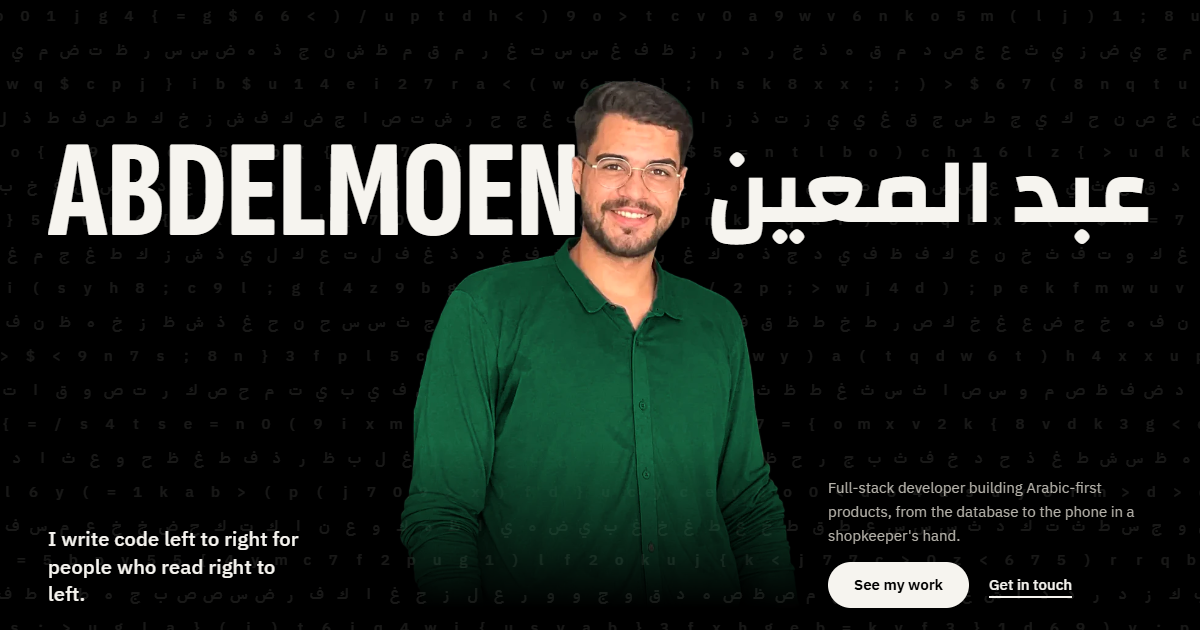
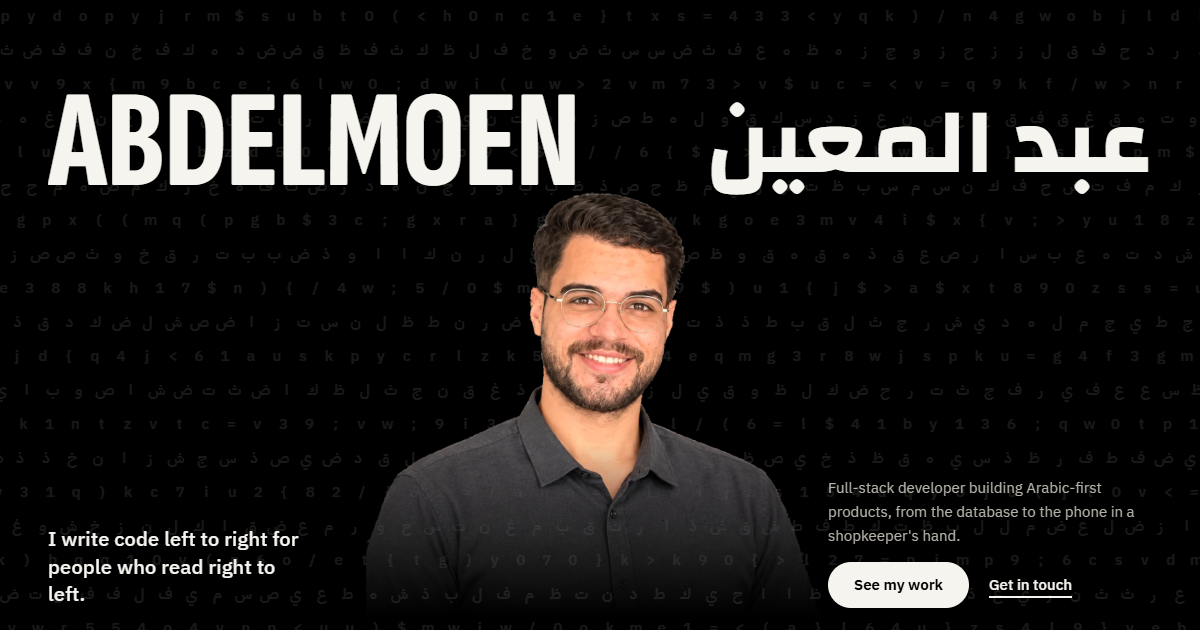
feat: use the new headshot in the hero
Swap the hero portrait for the new photo with its background removed,
size it for a half-length shot with both names above the head, and drop
the pointer color effect so the photo always shows in full color.

Changed region(s): [[0.0308, 0.1206, 0.9558, 0.9048], [0.8942, 0.6032, 0.925, 0.6333], [0.5858, 0.9349, 0.6167, 0.9651]]

diff --git a/JS/main.js b/JS/main.js
@@ -13,7 +13,7 @@ const arabic = {
     intro: "مطوّر Full-stack أبني منتجات عربية أولاً، من قاعدة البيانات حتى الجوال في يد صاحب المحل.",
     ctaWork: "شاهد أعمالي",
     ctaContact: "تواصل معي",
-    portraitAlt: "عبد المعين مبتسماً، يرتدي نظارة مستديرة وقميصاً أخضر",
+    portraitAlt: "عبد المعين مبتسماً، يرتدي نظارة مستديرة وقميصاً رمادياً داكناً",
     hisbahStatus: "يعمل على الويب وأندرويد",
     hisbahTitle: "دفتر الدين، على الجوال.",
     hisbahLead: "حسبة يحل محل الدفتر الورقي في محلات البقالة الصغيرة. يبيع الموظف من جوال أندرويد، ويبقى دين كل زبون باسمه، ويدير المالك المخزون والتقارير من أي متصفح.",
@@ -491,7 +491,6 @@ function drawGlyphs(boost) {
 // Scroll engine: one loop drives everything that moves
 // ======================
 const hero = document.querySelector(".hero");
-const heroPortrait = document.querySelector(".hero__portrait");
 const tickers = [...document.querySelectorAll(".ticker__row")].map(row => ({
     row,
     direction: Number(row.dataset.direction),
@@ -612,25 +611,6 @@ function frame() {
 // Pointer effects
 // ======================
 function setupPointer() {
-    let lamp = 0;
-    let lastMove = 0;
-
-    window.addEventListener("pointermove", (e) => {
-        lastMove = performance.now();
-        const box = heroPortrait.getBoundingClientRect();
-        heroPortrait.style.setProperty("--lamp-x", `${e.clientX - box.left}px`);
-        heroPortrait.style.setProperty("--lamp-y", `${e.clientY - box.top}px`);
-    }, { passive: true });
-
-    // The lamp widens while the pointer moves over the hero
-    function glow() {
-        const moving = performance.now() - lastMove < 1600 && window.scrollY < heroHeight;
-        lamp += ((moving ? 480 : 0) - lamp) * .08;
-        heroPortrait.style.setProperty("--lamp", `${lamp.toFixed(1)}px`);
-        requestAnimationFrame(glow);
-    }
-    glow();
-
     // Buttons lean toward the cursor
     document.querySelectorAll("[data-magnetic]").forEach(node => {
         node.addEventListener("pointermove", (e) => {

diff --git a/CSS/style.css b/CSS/style.css
@@ -348,7 +348,7 @@ html[data-tone="black"] .site-nav {
 .hero__line {
     position: absolute;
     z-index: 1;
-    inset-block-start: 21svh;
+    inset-block-start: 13svh;
     white-space: nowrap;
     color: var(--white);
     line-height: 1;
@@ -389,13 +389,13 @@ html[data-tone="black"] .site-nav {
     z-index: 2;
     inset-block-end: 0;
     left: 50%;
-    height: 88svh;
-    aspect-ratio: 671 / 909;
+    height: 70svh;
+    aspect-ratio: 1100 / 1037;
     transform: translateX(-50%) scale(calc(1 + var(--tear) * .2));
     transform-origin: 50% 40%;
     opacity: calc(1.15 - var(--tear) * 1.5);
-    -webkit-mask-image: linear-gradient(#000 66%, transparent 96%);
-    mask-image: linear-gradient(#000 66%, transparent 96%);
+    -webkit-mask-image: linear-gradient(#000 58%, transparent 97%);
+    mask-image: linear-gradient(#000 58%, transparent 97%);
     transition: translate 1.5s var(--ease), filter 1.5s;
 }
 
@@ -406,26 +406,6 @@ html[data-tone="black"] .site-nav {
     height: 100%;
     object-fit: contain;
     object-position: bottom;
-    filter: contrast(1.04);
-}
-
-.hero__photo--color {
-    display: none;
-}
-
-/* With a pointer the photo rests in black and white and moving over it brings the color back.
-   Touch screens have no pointer, so they keep the color */
-@media (hover: hover) {
-    .motion .hero__photo {
-        filter: grayscale(1) contrast(1.15) brightness(1.04);
-    }
-
-    .motion .hero__photo--color {
-        display: block;
-        filter: contrast(1.04) saturate(1.08);
-        -webkit-mask-image: radial-gradient(circle var(--lamp, 0px) at var(--lamp-x, 50%) var(--lamp-y, 30%), #000 55%, transparent 100%);
-        mask-image: radial-gradient(circle var(--lamp, 0px) at var(--lamp-x, 50%) var(--lamp-y, 30%), #000 55%, transparent 100%);
-    }
 }
 
 .hero__foot {
@@ -1343,7 +1323,7 @@ html:not(.motion) .route__steps {
     }
 
     .hero__portrait {
-        height: min(54svh, 118vw);
+        height: min(48svh, 98vw);
         inset-block-end: 22svh;
         -webkit-mask-image: linear-gradient(#000 72%, transparent 100%);
         mask-image: linear-gradient(#000 72%, transparent 100%);

diff --git a/index.html b/index.html
@@ -79,11 +79,9 @@
                 </h1>
 
                 <div class="hero__portrait">
-                    <img class="hero__photo" src="images/abdelmoen.webp" width="671" height="909"
-                        alt="Abdelmoen smiling, wearing round glasses and a green shirt" data-i18n-alt="portraitAlt"
+                    <img class="hero__photo" src="images/abdelmoen.webp" width="1100" height="1037"
+                        alt="Abdelmoen smiling, wearing round glasses and a charcoal shirt" data-i18n-alt="portraitAlt"
                         fetchpriority="high">
-                    <img class="hero__photo hero__photo--color" src="images/abdelmoen.webp" width="671" height="909"
-                        alt="">
                 </div>
 
                 <div class="hero__foot">
